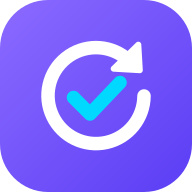
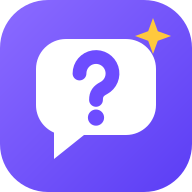
feat(brand): rename Revizo to Kwizo
Revizo was taken. New quiz-bubble logo with a yellow spark, regenerated
icons, a yellow accent in the wordmark, and quiz-first landing copy
('Quiz yourself. Ace the exam.') that names real features: keyboard
answers, mistake review, streaks.

Changed region(s): [[0.1875, 0.0938, 0.875, 0.8438]]

diff --git a/src/pages/Landing.tsx b/src/pages/Landing.tsx
@@ -1,4 +1,4 @@
-import { ArrowRight, Upload, Sparkles, Brain, CheckCircle, RotateCcw, CalendarClock, Target } from "lucide-react"
+import { ArrowRight, Upload, Sparkles, Brain, CheckCircle, Zap, CalendarClock, Target, Flame, Keyboard } from "lucide-react"
 import { Logo } from "@/components/ui/Logo"
 
 export default function Landing({ onEnter }: { onEnter: () => void }) {
@@ -61,28 +61,28 @@ export default function Landing({ onEnter }: { onEnter: () => void }) {
           {/* Badge */}
           <div className="inline-flex items-center gap-2 px-3 sm:px-4 py-1.5 rounded-full text-xs sm:text-sm font-medium mb-8"
             style={{
-              background: "rgba(124,92,255,0.1)",
-              border: "1px solid rgba(124,92,255,0.28)",
-              color: "#C4B5FD",
+              background: "rgba(255,200,61,0.1)",
+              border: "1px solid rgba(255,200,61,0.3)",
+              color: "#FFD873",
             }}
           >
-            <RotateCcw size={13} />
-            Active recall + spaced repetition
+            <Zap size={13} />
+            Your notes in, a quiz out
           </div>
 
           <h1 className="text-3xl sm:text-5xl md:text-[72px] font-black leading-[1.0] tracking-tighter mb-6">
-            Revise less.
+            Quiz yourself.
             <br />
             <span
               style={{
                 background:
-                  "linear-gradient(135deg, #ffffff 0%, #C4B5FD 45%, #7C5CFF 100%)",
+                  "linear-gradient(135deg, #FFD873 0%, #C4B5FD 50%, #7C5CFF 100%)",
                 WebkitBackgroundClip: "text",
                 WebkitTextFillColor: "transparent",
                 backgroundClip: "text",
               }}
             >
-              Remember more.
+              Ace the exam.
             </span>
           </h1>
 
@@ -90,9 +90,9 @@ export default function Landing({ onEnter }: { onEnter: () => void }) {
             className="text-lg md:text-xl max-w-2xl mx-auto leading-relaxed mb-10"
             style={{ color: "rgba(255,255,255,0.48)" }}
           >
-            Revizo turns your PDFs and lecture notes into quizzes and
-            flashcards, then brings back each card right before you would
-            forget it.
+            Kwizo turns your PDFs and lecture notes into quizzes and
+            flashcards. Answer, see what you missed, and come back tomorrow
+            to keep your streak alive.
           </p>
 
           <div className="flex flex-col sm:flex-row items-center justify-center gap-3 mb-5">
@@ -100,7 +100,7 @@ export default function Landing({ onEnter }: { onEnter: () => void }) {
               onClick={onEnter}
               className="group flex items-center gap-2 px-8 py-3.5 rounded-2xl font-semibold text-white transition-all duration-200 bg-[#7C5CFF] hover:bg-[#8B6BFF] hover:shadow-[0_0_36px_rgba(124,92,255,0.45)]"
             >
-              Start for free
+              Start my first quiz
               <ArrowRight
                 size={17}
                 className="group-hover:translate-x-0.5 transition-transform"
@@ -213,14 +213,14 @@ export default function Landing({ onEnter }: { onEnter: () => void }) {
           <div
             className="hidden sm:flex absolute -bottom-4 right-8 px-4 py-2 rounded-xl text-sm font-semibold items-center gap-2"
             style={{
-              background: "rgba(0,217,255,0.1)",
-              border: "1px solid rgba(0,217,255,0.25)",
-              color: "#00D9FF",
+              background: "rgba(255,200,61,0.1)",
+              border: "1px solid rgba(255,200,61,0.3)",
+              color: "#FFC83D",
               backdropFilter: "blur(8px)",
             }}
           >
-            <CalendarClock size={13} />
-            Next review: tomorrow · 6 cards
+            <Flame size={13} />
+            5-day streak · keep it going
           </div>
         </div>
       </section>
@@ -249,14 +249,14 @@ export default function Landing({ onEnter }: { onEnter: () => void }) {
               step: "02",
               icon: Sparkles,
               title: "Get a quiz and a deck",
-              desc: "Revizo reads your material and writes quiz questions and flashcards straight from it, not from the internet.",
+              desc: "Kwizo reads your material and writes quiz questions and flashcards straight from it, not from the internet.",
               color: "#00D9FF",
             },
             {
               step: "03",
-              icon: Brain,
-              title: "Revise at the right time",
-              desc: "Rate each card and Revizo schedules the next review: hard cards come back sooner, easy ones later.",
+              icon: Keyboard,
+              title: "Play, miss, retry",
+              desc: "Answer with 1-4 on the keyboard, review your mistakes, and let the flashcards come back when you need them.",
               color: "#22C55E",
             },
           ].map(({ step, icon: Icon, title, desc, color }) => (
@@ -294,19 +294,19 @@ export default function Landing({ onEnter }: { onEnter: () => void }) {
       <section className="max-w-7xl mx-auto px-4 sm:px-6 pb-8">
         <div className="text-center mb-12">
           <h2 className="text-2xl sm:text-3xl md:text-4xl font-black tracking-tight mb-3">
-            Why re-reading is not revising
+            Why a quiz beats re-reading
           </h2>
           <p className="text-base sm:text-lg max-w-2xl mx-auto" style={{ color: "rgba(255,255,255,0.38)" }}>
             Highlighting feels productive, but memory is built by pulling answers out of your head.
-            Revizo is designed around that.
+            That is exactly what a quiz does.
           </p>
         </div>
         <div className="grid sm:grid-cols-3 gap-5">
           {[
             {
               icon: Brain,
-              title: "Active recall",
-              desc: "Every question makes you answer before you see the solution.",
+              title: "Answer first",
+              desc: "Every question makes you commit to an answer before you see the solution.",
               color: "#7C5CFF",
             },
             {
@@ -317,7 +317,7 @@ export default function Landing({ onEnter }: { onEnter: () => void }) {
             },
             {
               icon: Target,
-              title: "Learn from mistakes",
+              title: "Learn from misses",
               desc: "At the end of a quiz, review the questions you missed with the right answer.",
               color: "#F59E0B",
             },
@@ -356,7 +356,7 @@ export default function Landing({ onEnter }: { onEnter: () => void }) {
             Free during beta
           </div>
           <h2 className="text-2xl sm:text-3xl font-black mb-3">
-            Revizo is free right now
+            Kwizo is free right now
           </h2>
           <p style={{ color: "rgba(255,255,255,0.45)" }}>
             No credit card, no hidden fees. We're building this for students first — pricing details coming soon.
@@ -374,7 +374,7 @@ export default function Landing({ onEnter }: { onEnter: () => void }) {
           }}
         >
           <h2 className="text-2xl sm:text-3xl md:text-4xl font-black mb-3">
-            Your next exam starts with one upload
+            Your first quiz is one upload away
           </h2>
           <p className="mb-8" style={{ color: "rgba(255,255,255,0.45)" }}>
             Upload your first course and get a quiz and flashcards in minutes.
@@ -394,7 +394,7 @@ export default function Landing({ onEnter }: { onEnter: () => void }) {
         <div className="max-w-7xl mx-auto px-4 sm:px-6 py-8 flex flex-col md:flex-row items-center justify-between gap-4">
           <Logo size="sm" />
           <p className="text-sm" style={{ color: "rgba(255,255,255,0.28)" }}>
-            © 2026 Revizo. Revise less, remember more.
+            © 2026 Kwizo. Quiz yourself, ace the exam.
           </p>
           <p className="text-xs" style={{ color: "rgba(255,255,255,0.18)" }}>
             Crafted with care by <span style={{ color: "rgba(124,92,255,0.5)" }}>H.S Company</span>

diff --git a/src/components/ui/Logo.tsx b/src/components/ui/Logo.tsx
@@ -1,9 +1,9 @@
 import { useId } from "react"
 
-/** The Revizo mark: a review loop around a check. Same drawing as public/logo.svg. */
+/** The Kwizo mark: a quiz bubble with a spark. Same drawing as public/logo.svg. */
 export function LogoMark({ size = 40, className = "" }: { size?: number; className?: string }) {
   // Each mark on the page needs its own gradient id
-  const gradientId = `rz-bg-${useId()}`
+  const gradientId = `kz-bg-${useId()}`
   return (
     <svg
       width={size}
@@ -19,16 +19,19 @@ export function LogoMark({ size = 40, className = "" }: { size?: number; classNa
         </linearGradient>
       </defs>
       <rect width="64" height="64" rx="16" fill={`url(#${gradientId})`} />
-      <path d="M48 32 A16 16 0 1 1 41.9 19.3" fill="none" stroke="#fff" strokeWidth="4.5" strokeLinecap="round" />
-      <path d="M46.6 23.4 L46.1 14.9 L37.9 22.9 Z" fill="#fff" stroke="#fff" strokeWidth="2" strokeLinejoin="round" />
       <path
-        d="M24.5 32.5 L30 38 L40 27.5"
-        fill="none"
-        stroke="#00D9FF"
-        strokeWidth="4.5"
-        strokeLinecap="round"
-        strokeLinejoin="round"
+        d="M22 13 H42 A10 10 0 0 1 52 23 V35 A10 10 0 0 1 42 45 H28 L18 53 V44.2 A10 10 0 0 1 12 35 V23 A10 10 0 0 1 22 13 Z"
+        fill="#fff"
       />
+      <path
+        d="M26.5 24.5 A5.5 5.5 0 1 1 34.5 29.4 C32.8 30.3 32 31.3 32 33.3"
+        fill="none"
+        stroke="#6D4CFF"
+        strokeWidth="4.6"
+        strokeLinecap="round"
+      />
+      <circle cx="32" cy="39.2" r="2.7" fill="#6D4CFF" />
+      <path d="M51 6 L52.6 10.4 L57 12 L52.6 13.6 L51 18 L49.4 13.6 L45 12 L49.4 10.4 Z" fill="#FFC83D" />
     </svg>
   )
 }
@@ -39,14 +42,14 @@ const SIZES = {
   lg: { mark: 48, text: "text-2xl" },
 } as const
 
-/** Mark + wordmark. The "o" picks up the check's cyan. */
+/** Mark + wordmark. The "o" picks up the spark's yellow. */
 export function Logo({ size = "md", className = "" }: { size?: keyof typeof SIZES; className?: string }) {
   const s = SIZES[size]
   return (
     <span className={`inline-flex items-center gap-2.5 ${className}`}>
       <LogoMark size={s.mark} />
       <span className={`font-black tracking-tight text-white ${s.text}`}>
-        Reviz<span className="text-[#00D9FF]">o</span>
+        Kwiz<span className="text-[#FFC83D]">o</span>
       </span>
     </span>
   )

diff --git a/index.html b/index.html
@@ -3,11 +3,11 @@
   <head>
     <meta charset="UTF-8" />
     <meta name="viewport" content="width=device-width, initial-scale=1.0" />
-    <title>Revizo · Revise less, remember more</title>
-    <meta name="description" content="Revizo turns your course notes into quizzes and spaced-repetition flashcards." />
+    <title>Kwizo · Quiz yourself, ace the exam</title>
+    <meta name="description" content="Kwizo turns your course notes into quizzes and spaced-repetition flashcards." />
     <meta name="theme-color" content="#0F0F12" />
-    <meta property="og:title" content="Revizo" />
-    <meta property="og:description" content="Revise less, remember more. Quizzes and flashcards from your own course notes." />
+    <meta property="og:title" content="Kwizo" />
+    <meta property="og:description" content="Quiz yourself, ace the exam. Quizzes and flashcards from your own course notes." />
     <meta property="og:image" content="/android-chrome-512x512.png" />
     <link rel="icon" type="image/svg+xml" href="/logo.svg" />
     <link rel="icon" type="image/x-icon" href="/favicon.ico" />

diff --git a/supabase/functions/_shared/http.ts b/supabase/functions/_shared/http.ts
@@ -4,7 +4,7 @@ const ALLOWED_HEADERS = "authorization, x-client-info, apikey, content-type"
 
 /**
  * CORS headers for a request. ALLOWED_ORIGINS is a comma-separated list of
- * app origins (e.g. "https://revizo.vercel.app,http://localhost:8443").
+ * app origins (e.g. "https://kwizo.vercel.app,http://localhost:8443").
  * When it is not set every origin is accepted, which is only meant for development.
  */
 function corsHeaders(req: Request): Record<string, string> {

diff --git a/README.md b/README.md
@@ -1,10 +1,10 @@
-# Revizo
+# Kwizo
 
 > Turn your course material into AI-generated quizzes and flashcards for active learning.
 
-Revizo is an AI-powered study tool that transforms course notes, slides, and documents into interactive revision resources. It solves the problem of passive, time-consuming revision by automating the creation of practice materials and pushing students towards active recall — the method proven to be most effective for long-term retention. 
+Kwizo is an AI-powered study tool that transforms course notes, slides, and documents into interactive revision resources. It solves the problem of passive, time-consuming revision by automating the creation of practice materials and pushing students towards active recall — the method proven to be most effective for long-term retention. 
 
-Born out of a personal need — revising networking, Java, and API development coursework as a first-year CS student — Revizo is designed to grow into a tool usable by any student or institution.
+Born out of a personal need — revising networking, Java, and API development coursework as a first-year CS student — Kwizo is designed to grow into a tool usable by any student or institution.
 
 ## Features
 
@@ -74,8 +74,8 @@ supabase/
 ## Getting Started
 
 ```bash
-git clone https://github.com/Anonymat-HS/Revizo.git
-cd Revizo
+git clone https://github.com/Anonymat-HS/Kwizo.git
+cd Kwizo
 pnpm install
 cp .env.example .env
 # Configure VITE_SUPABASE_URL, VITE_SUPABASE_PUBLISHABLE_KEY, LLM_PROVIDER, GROQ_API_KEY

diff --git a/AGENTS.md b/AGENTS.md
@@ -1,4 +1,4 @@
-# Revizo
+# Kwizo
 
 React + Vite + Tailwind CSS app (Supabase backend).
 
